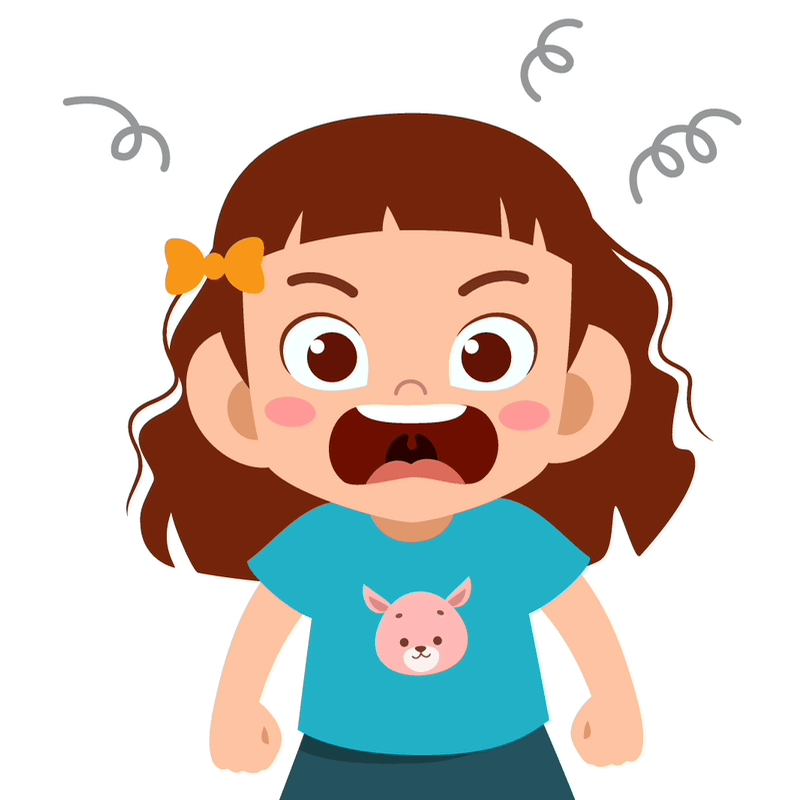
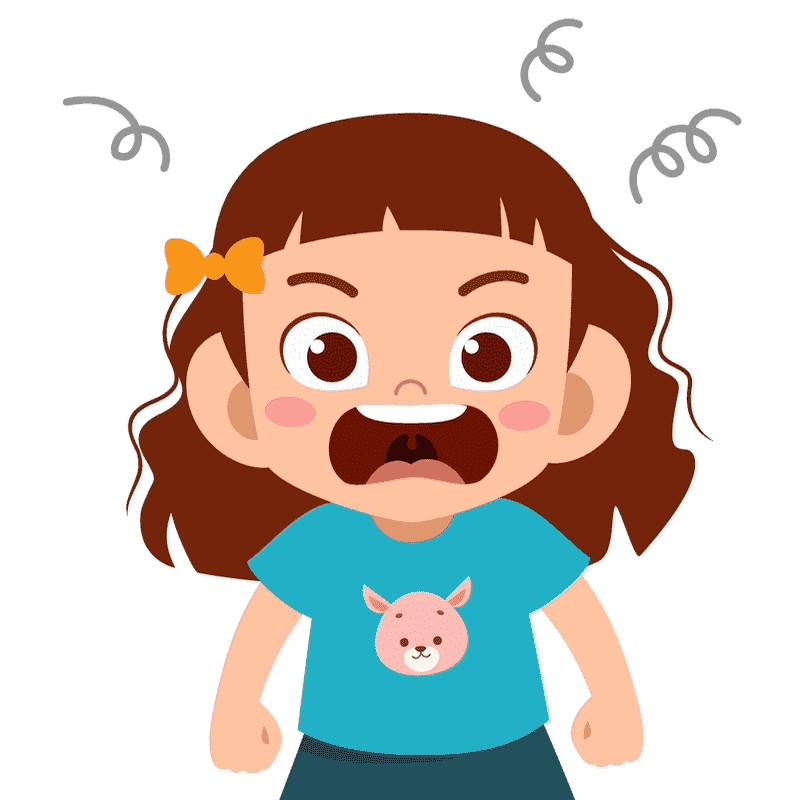
[update] アイコン画像の追加

diff --git a/resources/js/components/parts/DialogRandom.vue b/resources/js/components/parts/DialogRandom.vue
@@ -85,6 +85,23 @@ export default {
       imageurl_chage_child_3: require('../../../assets/change_image/child_3-min.png'),
       imageurl_chage_child_4: require('../../../assets/change_image/child_4-min.png'),
       imageurl_chage_child_5: require('../../../assets/change_image/child_5-min.png'),
+      imageurl_chage_child_6: require('../../../assets/change_image/child_6-min.png'),
+      imageurl_chage_child_7: require('../../../assets/change_image/child_7-min.png'),
+      imageurl_chage_child_8: require('../../../assets/change_image/child_8-min.png'),
+      imageurl_chage_child_9: require('../../../assets/change_image/child_9-min.png'),
+      imageurl_chage_child_10: require('../../../assets/change_image/child_10-min.png'),
+      imageurl_chage_child_11: require('../../../assets/change_image/child_11-min.png'),
+      imageurl_chage_child_12: require('../../../assets/change_image/child_12-min.png'),
+      imageurl_chage_child_13: require('../../../assets/change_image/child_13-min.png'),
+      imageurl_chage_child_14: require('../../../assets/change_image/child_14-min.png'),
+      imageurl_chage_child_15: require('../../../assets/change_image/child_15-min.png'),
+      imageurl_chage_child_16: require('../../../assets/change_image/child_16-min.png'),
+      imageurl_chage_child_17: require('../../../assets/change_image/child_17-min.png'),
+      imageurl_chage_child_18: require('../../../assets/change_image/child_18-min.png'),
+      imageurl_chage_child_19: require('../../../assets/change_image/child_19-min.png'),
+      imageurl_chage_child_20: require('../../../assets/change_image/child_20-min.png'),
+      imageurl_chage_child_21: require('../../../assets/change_image/child_21-min.png'),
+      imageurl_chage_child_22: require('../../../assets/change_image/child_22-min.png'),
     };
   },
   created() {},
@@ -174,7 +191,7 @@ export default {
       this.$emit('dialog-change', '');
     },
     chageImageIcon() {
-      var index = Math.floor(Math.random() * 5) + 1;
+      var index = Math.floor(Math.random() * 22) + 1;
       console.log(index);
 
       // 画像URLの指定時に変数がうまく展開できず地道にURLを指定
@@ -196,6 +213,57 @@ export default {
           return;
         case 5:
           this.imageurl_chage_child = this.imageurl_chage_child_5;
+          return;
+        case 6:
+          this.imageurl_chage_child = this.imageurl_chage_child_6;
+          return;
+        case 7:
+          this.imageurl_chage_child = this.imageurl_chage_child_7;
+          return;
+        case 8:
+          this.imageurl_chage_child = this.imageurl_chage_child_8;
+          return;
+        case 9:
+          this.imageurl_chage_child = this.imageurl_chage_child_9;
+          return;
+        case 10:
+          this.imageurl_chage_child = this.imageurl_chage_child_10;
+          return;
+        case 11:
+          this.imageurl_chage_child = this.imageurl_chage_child_11;
+          return;
+        case 12:
+          this.imageurl_chage_child = this.imageurl_chage_child_12;
+          return;
+        case 13:
+          this.imageurl_chage_child = this.imageurl_chage_child_13;
+          return;
+        case 14:
+          this.imageurl_chage_child = this.imageurl_chage_child_14;
+          return;
+        case 15:
+          this.imageurl_chage_child = this.imageurl_chage_child_15;
+          return;
+        case 16:
+          this.imageurl_chage_child = this.imageurl_chage_child_16;
+          return;
+        case 17:
+          this.imageurl_chage_child = this.imageurl_chage_child_17;
+          return;
+        case 18:
+          this.imageurl_chage_child = this.imageurl_chage_child_18;
+          return;
+        case 19:
+          this.imageurl_chage_child = this.imageurl_chage_child_19;
+          return;
+        case 20:
+          this.imageurl_chage_child = this.imageurl_chage_child_20;
+          return;
+        case 21:
+          this.imageurl_chage_child = this.imageurl_chage_child_21;
+          return;
+        case 22:
+          this.imageurl_chage_child = this.imageurl_chage_child_22;
           return;
         default:
           break;
